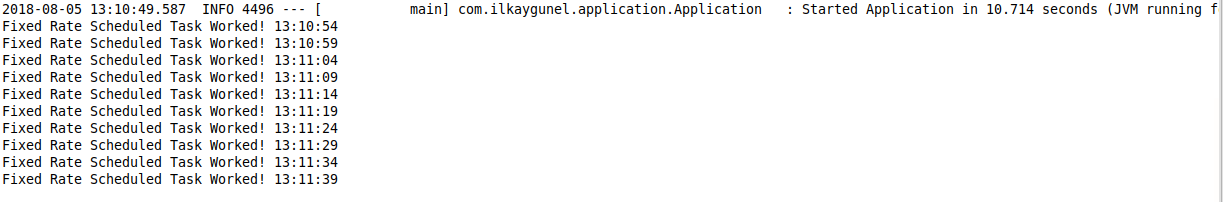
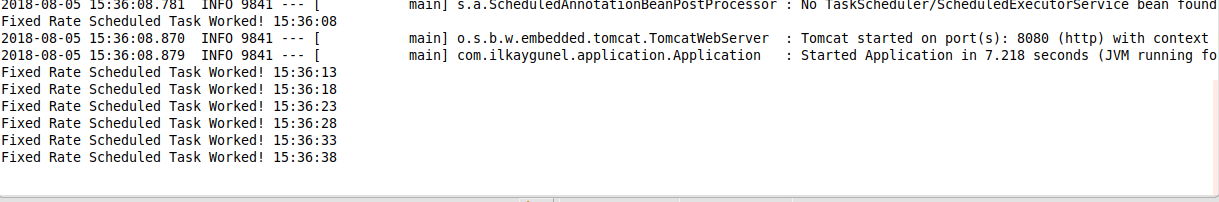
Fix

Changed region(s): [[0.0, 0.0, 1.0, 1.0], [0.0, 0.0, 0.2806, 0.8317], [0.0, 0.8614, 0.2806, 0.9208]]

diff --git a/blog/2018/schedules-tasks-with-spring-boot/index.html b/blog/2018/schedules-tasks-with-spring-boot/index.html
@@ -186,7 +186,7 @@
 <p><a href="/images/springSchedule/springSchedule1.png">
 <img src="/images/springSchedule/springSchedule1.png" style="width: 958px; height= 400px;" /></a></p>
 
-<p>Uygulamayı çalıştırıp konsolu kontrol ettiğimiz zaman Tomcat’in başlamasından 5 saniye sonra metot ilk defa çalışıyor ve akabinde her 5 saniyede bir tetikleniyor.</p>
+<p>Uygulamayı çalıştırıp konsolu kontrol ettiğimiz zaman Started Application yazısından önce, uygulamamız ayağa kalkarken task’ımızın çalıştığını görüyoruz. Akabinde vermiş olduğumuz 5 saniyelik aralık uygulanmış ve Started Application yazısının hemen altında task’ımız bir kez daha çalışmış. Devam eden süreçte de her 5 saniyede bir task’ımız çalışıyor.</p>
 
 <p><strong>Fixed Delay Scheduling</strong></p>
 
